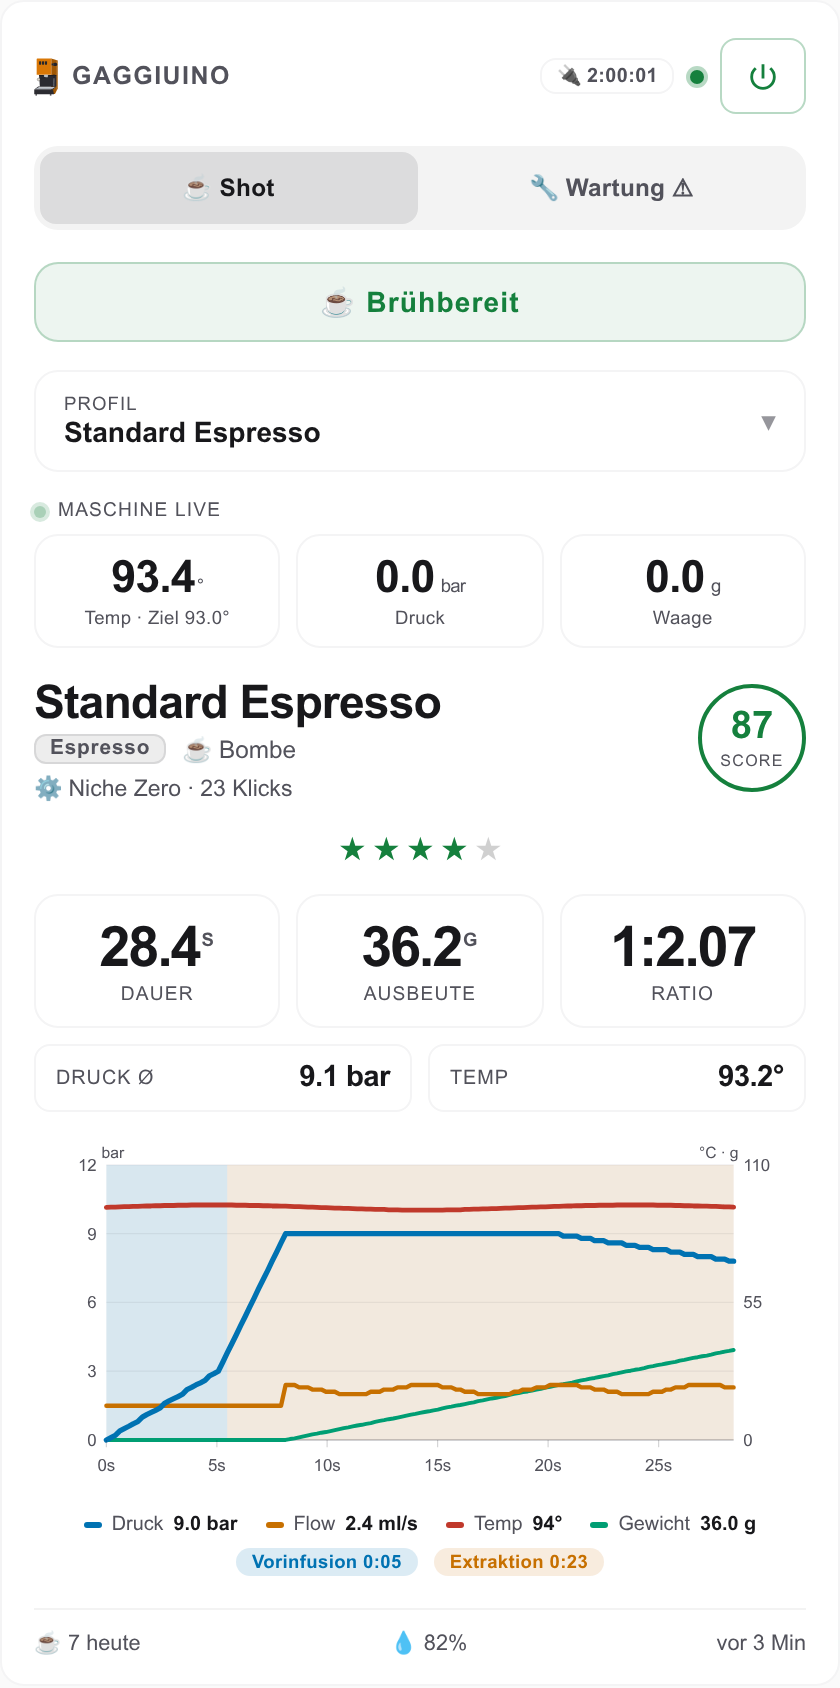
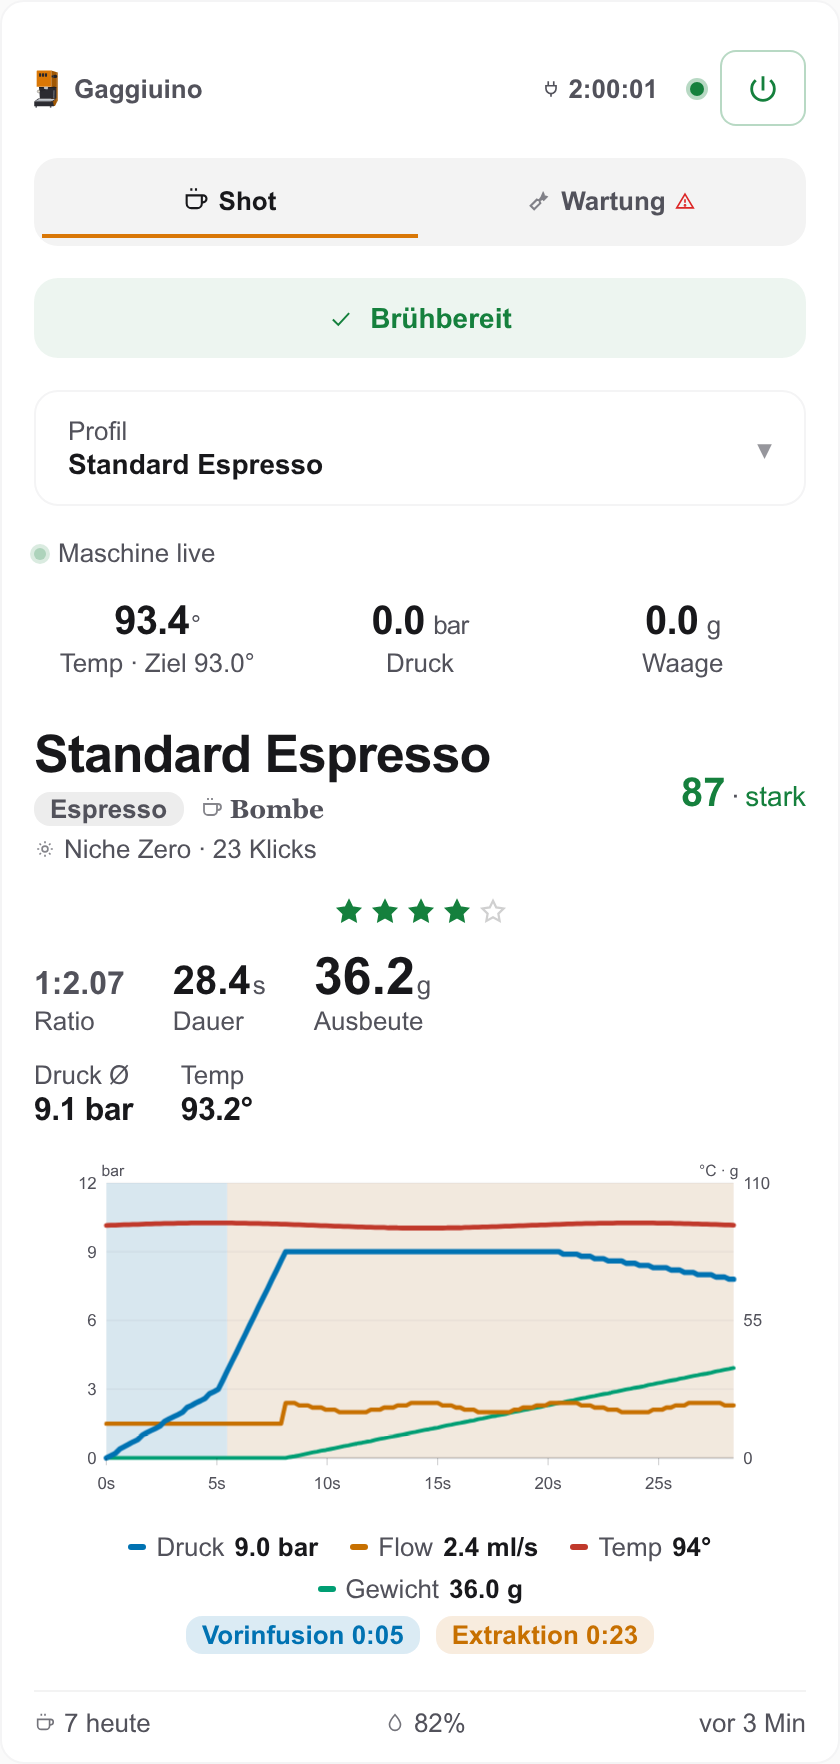
chore(release): v2.20.0 (#124)
Finalizes the "Instrument" redesign (#120) plus the tab-underline and
missing-icon-fill bugfixes and GLP-TOKENS v1 groundwork that had
accumulated under Unreleased: version bump, CHANGELOG version heading,
regenerated screenshots (card.png, card-light.png, card-ready-by.png),
and a README description tweak to match the new cool-graphite look.

diff --git a/glp-card.js b/glp-card.js
@@ -1,4 +1,4 @@
-const GLP_CARD_VERSION = '2.19.0';
+const GLP_CARD_VERSION = '2.20.0';
 
 // ─── i18n ────────────────────────────────────────────────────────────────────
 // DE wording is the original card text; language follows hass.language (DE/EN/IT/FR/ES/NL, falls back to EN).

diff --git a/CHANGELOG.md b/CHANGELOG.md
@@ -1,6 +1,6 @@
 # Changelog
 
-## [Unreleased]
+## [2.20.0] – 2026-08-16
 ### Fixed
 - **The active tab's underline rendered as a curve running past the tab.** `.tab-btn` carried both a full `border-radius` and the new 2px `border-bottom` marker, and a border on a rounded box is bent around the corner radius with it. The radius is now applied to the top corners only, so the marker is a straight rule. #120
 - **Every drawn icon rendered as a solid black shape.** The icons are stroke-drawn paths carrying no presentation attributes of their own, and the card was missing the base `.glp-i` rule that gives them `fill: none` / `stroke: currentColor` — so they fell back to the SVG default of `fill: black; stroke: none`. Markup, tests and build were all green; the failure existed only in the browser. Added the base rule, plus `test/icon-base-style.test.js`, which asserts the rule exists, sets both properties, and that no icon path carries a competing `fill` attribute of its own. #120

diff --git a/README.md b/README.md
@@ -17,7 +17,7 @@
 
 <p align="center">
   Custom Lovelace card for <a href="https://github.com/mxkissnr/gaggiuino-local-profiler">Gaggiuino Local Profiler</a>.<br/>
-  Premium card with hero metric typography, a clean shot chart and warm layered palette — feels like Decent Espresso or Apple Health, built for espresso. Follows your Home Assistant theme, light or dark.<br/>
+  Premium card with hero metric typography, a clean shot chart and a cool, instrument-panel feel — feels like Decent Espresso or Apple Health, built for espresso. Follows your Home Assistant theme, light or dark.<br/>
   Mobile-first with swipe gestures, dot navigation, custom profile picker and live brewing view — all from the <a href="https://github.com/mxkissnr/glp-integration">GLP HA Integration</a>.
 </p>
 
